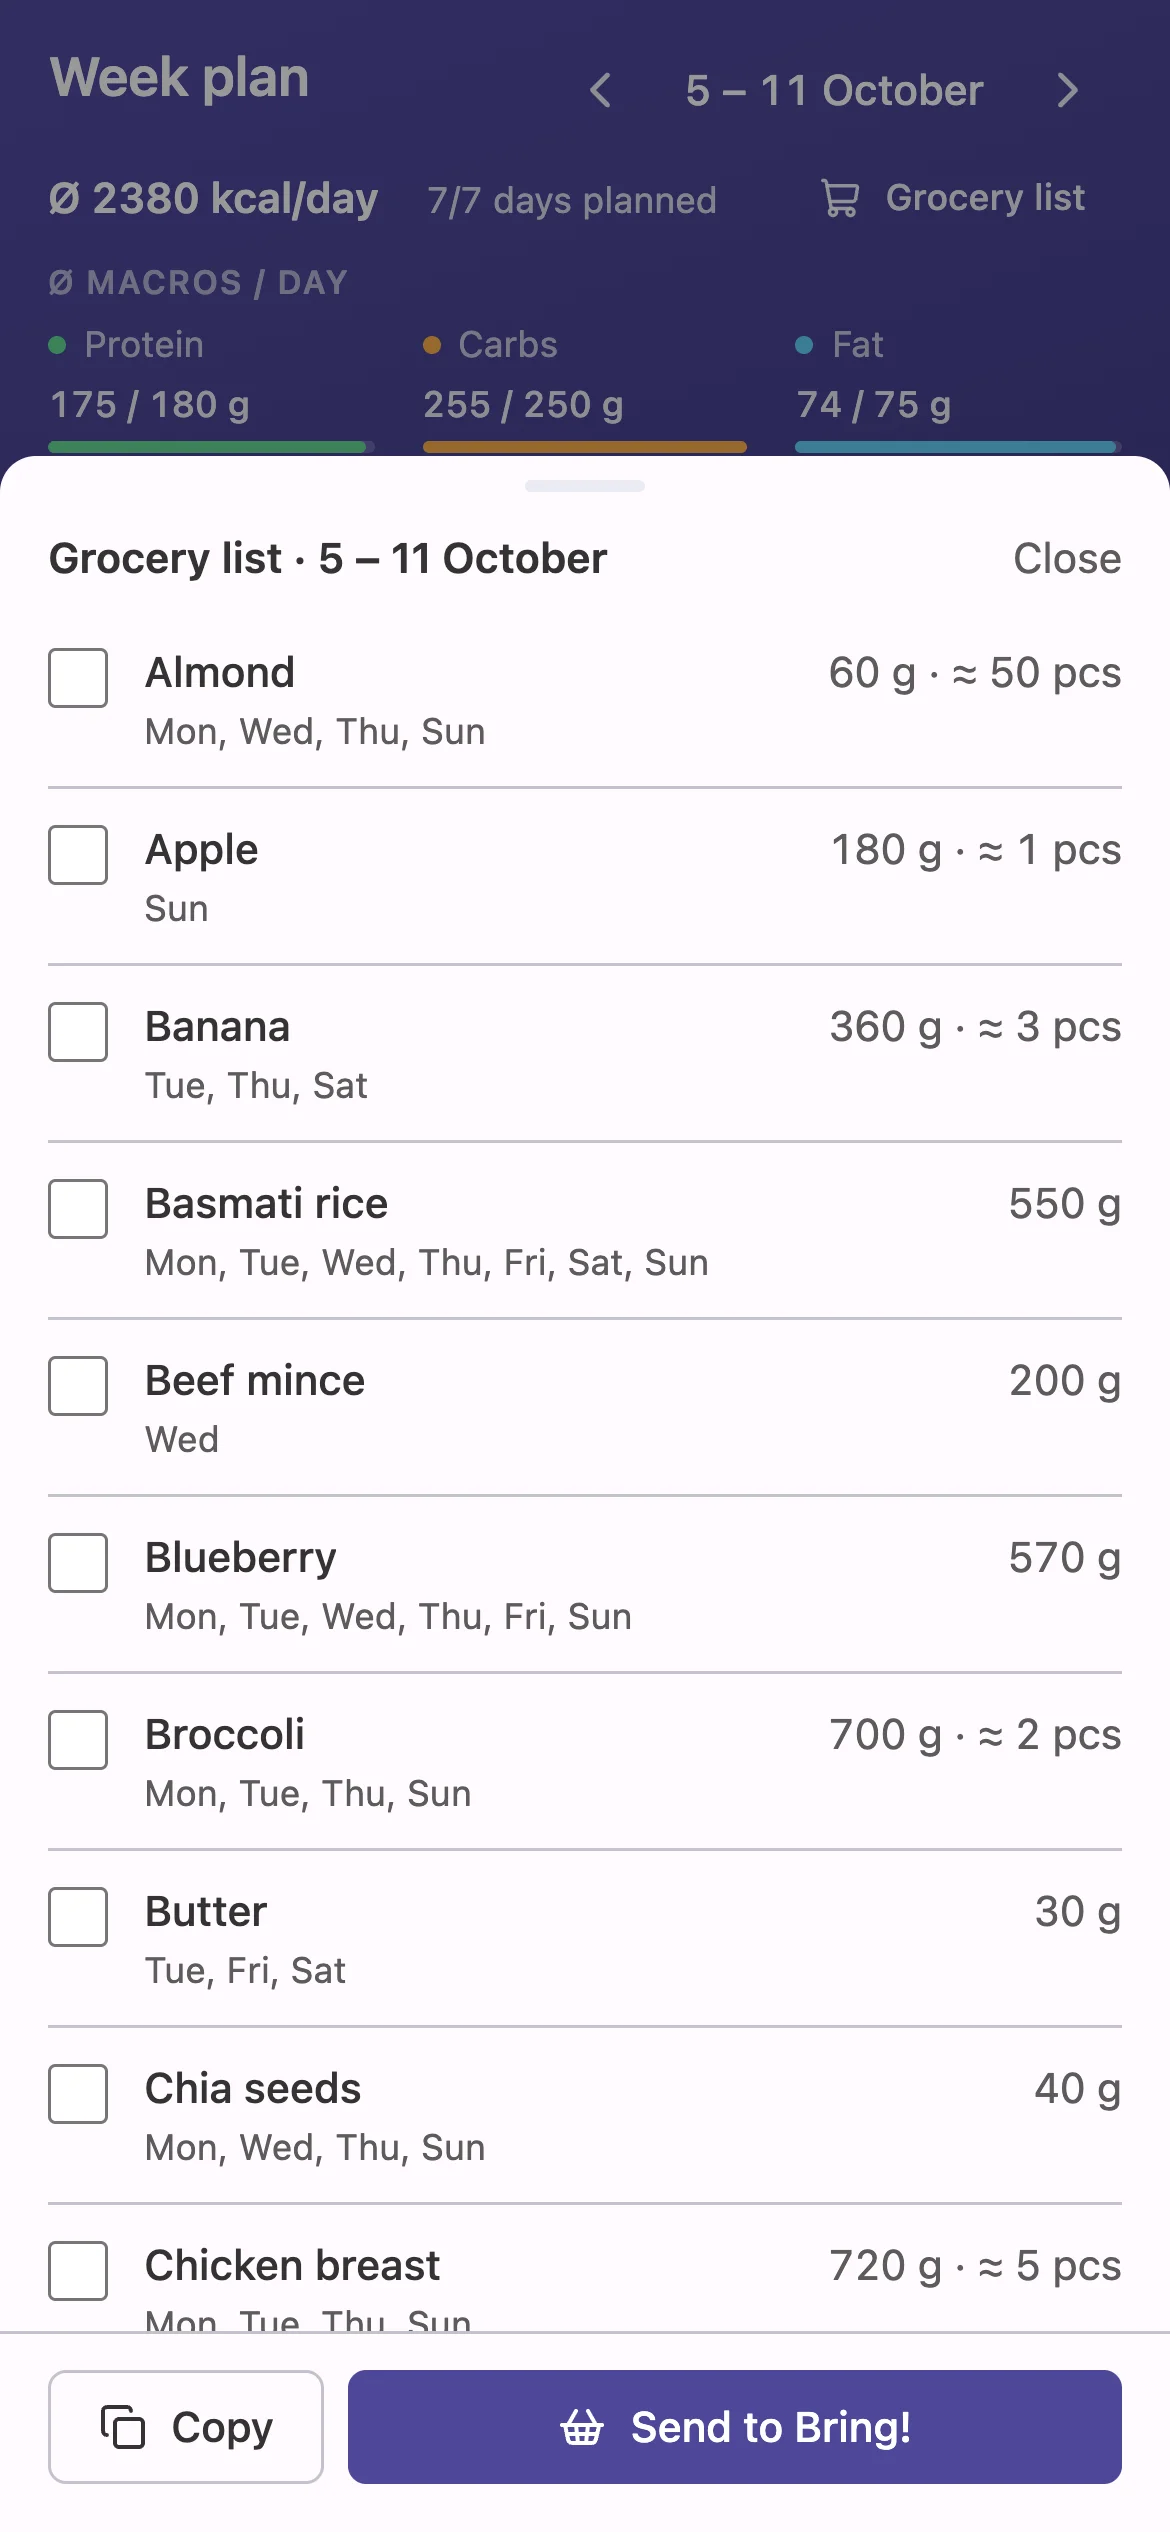
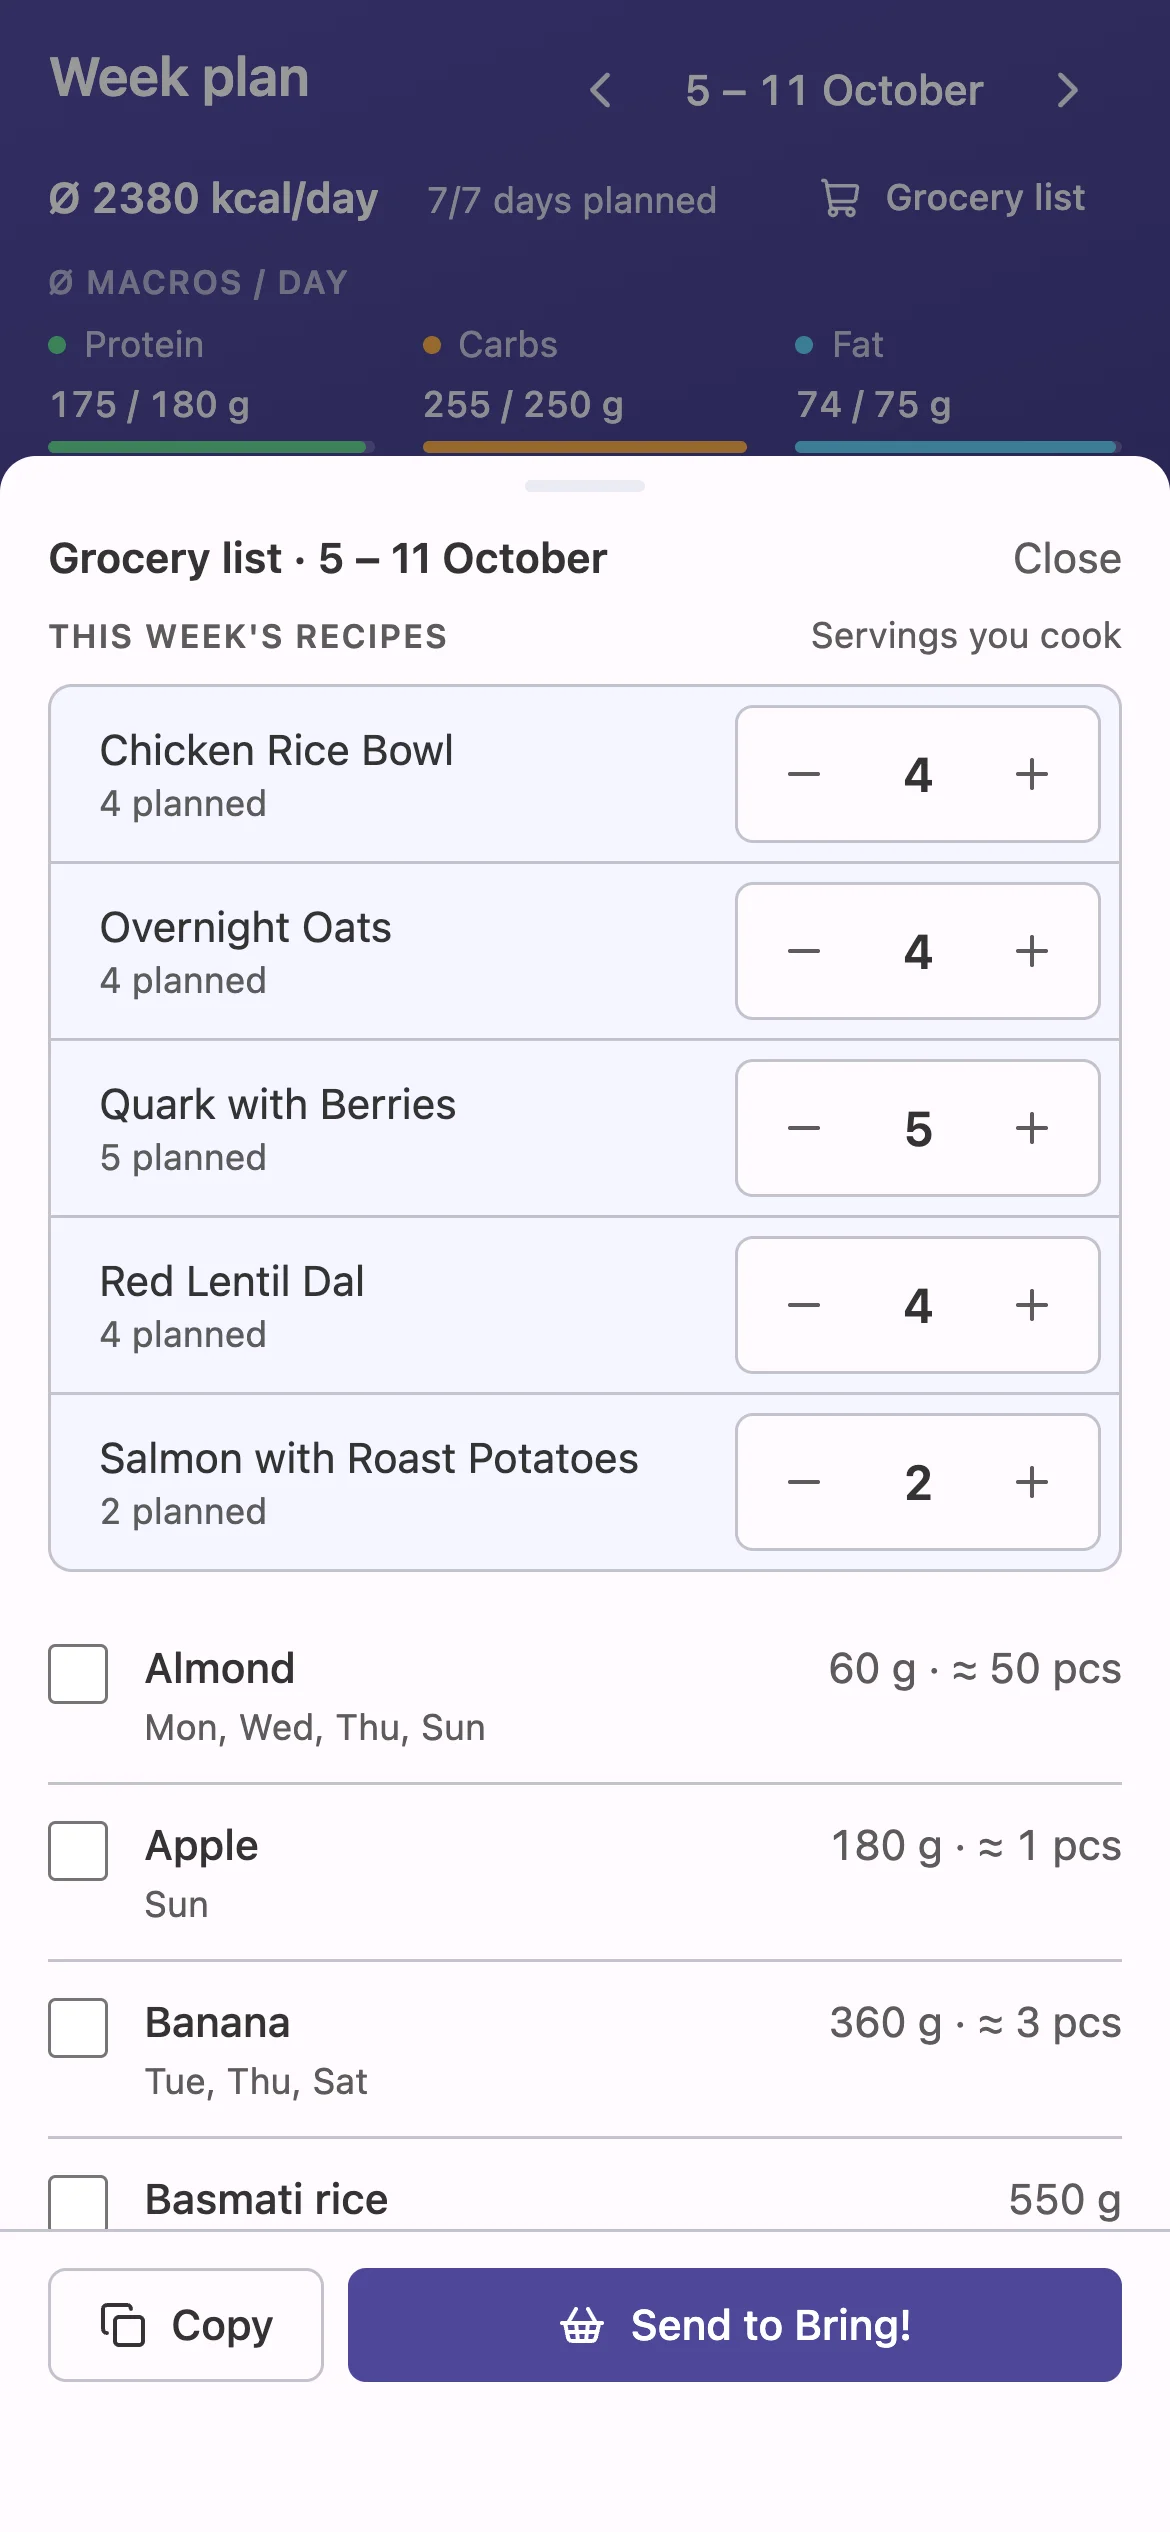
Draw the phone frame in SVG and recapture the phone screenshots
The website's phone frame is now two SVG masks: a rim with side buttons
under the screenshot and a bezel with the screen opening and the home
indicator over it, coloured by the frame and new frame-rim tokens. The
screenshot reaches under the bezel, so rounding no longer leaves one side
thinner. At phone width the hero row no longer stretches the front frame
out of its aspect ratio.

The capture script gives phone shots the iPhone's 34px home-indicator
gutter (headless Chrome has no safe-area insets), so the tab labels clear
the rounded corners. All phone shots are recaptured in EN and DE, which
also brings the grocery list's servings stepper onto the page.

The recapture recipe and what the frame relies on are documented in the
forkcast-dev skill, linked from AGENTS.md; DESIGN.md and its sidecar
describe the new frame.

Claude-Session: https://claude.ai/code/session_01XePo81tEWJZyEbhZQyK3yx

diff --git a/website/src/styles.css b/website/src/styles.css
@@ -15,6 +15,7 @@
   --line: hsl(244 16% 90%);
   --selection: hsl(244 60% 86%);
   --frame: hsl(244 18% 16%);
+  --frame-rim: hsl(244 8% 48%);
   --on-brand: hsl(0 0% 100%);
   --error: hsl(0 66% 44%);
   --macro-p: hsl(146 52% 38%);
@@ -50,6 +51,7 @@
     --line: hsl(244 16% 22%);
     --selection: hsl(244 40% 32%);
     --frame: hsl(244 14% 4%);
+    --frame-rim: hsl(244 8% 30%);
     --on-brand: hsl(244 40% 10%);
     --error: hsl(0 80% 72%);
     --macro-p: hsl(145 60% 62%);
@@ -300,24 +302,46 @@ figure {
   min-height: 670px;
 }
 
-/* The bezel is the screenshot's margin, not the frame's padding: a percentage margin resolves
- * against the frame's own width, so the bezel scales with the device at every size. */
+/* A drawn iPhone in three layers, all stretched to the frame's box: the rim with its side buttons
+ * (device-body.svg) under the screenshot, the bezel (device-bezel.svg) over it. The SVGs are masks,
+ * so the colours stay tokens. The screenshot reaches a little under the bezel on every side, so
+ * subpixel rounding never shows as an uneven edge. Geometry is in the SVGs' 436 x 891 units. */
 .device {
-  display: flow-root; /* keeps the screenshot's margin inside the frame */
   position: relative;
+  isolation: isolate;
   width: 280px;
-  border-radius: 16% / 7.4%;
-  background: var(--frame);
+  aspect-ratio: 436 / 891;
+  border-radius: 15.6% / 7.6%;
   box-shadow: var(--shadow-device);
+}
+
+.device::before,
+.device::after {
+  content: '';
+  position: absolute;
+  inset: 0;
+  -webkit-mask: var(--mask) 0 0 / 100% 100% no-repeat;
+  mask: var(--mask) 0 0 / 100% 100% no-repeat;
+}
+
+.device::before {
+  --mask: url('/device-body.svg');
+  z-index: -1;
+  background: var(--frame-rim);
+}
+
+.device::after {
+  --mask: url('/device-bezel.svg');
+  background: var(--frame);
 }
 
 .device img,
 .device .shot-missing {
-  display: block;
-  width: 88.8%;
-  margin: 5.6%;
-  height: auto;
-  aspect-ratio: 390 / 844;
+  position: absolute;
+  left: 4.243%; /* 18.5 */
+  top: 1.74%; /* 15.5 */
+  width: 91.514%; /* 399 */
+  height: 96.521%; /* 860 */
   border-radius: 13% / 6%;
   object-fit: cover;
   object-position: top;
@@ -380,6 +404,7 @@ figure {
     min-height: 0;
     display: flex;
     justify-content: center;
+    align-items: flex-start; /* stretching would override the frames' aspect ratio */
     gap: 16px;
     padding-bottom: 40px;
   }

diff --git a/website/DESIGN.md b/website/DESIGN.md
@@ -14,6 +14,7 @@ colors:
   line: "hsl(244 16% 90%)"
   selection: "hsl(244 60% 86%)"
   frame: "hsl(244 18% 16%)"
+  frame-rim: "hsl(244 8% 48%)"
   on-brand: "hsl(0 0% 100%)"
   error: "hsl(0 66% 44%)"
   macro-p: "hsl(146 52% 38%)"
@@ -31,6 +32,7 @@ colors:
   line-dark: "hsl(244 16% 22%)"
   selection-dark: "hsl(244 40% 32%)"
   frame-dark: "hsl(244 14% 4%)"
+  frame-rim-dark: "hsl(244 8% 30%)"
   on-brand-dark: "hsl(244 40% 10%)"
   error-dark: "hsl(0 80% 72%)"
   macro-p-dark: "hsl(145 60% 62%)"
@@ -100,7 +102,7 @@ rounded:
   control: "14px"
   browser: "12px"
   pill: "999px"
-  device: "16% / 7.4%"
+  device: "15.6% / 7.6%" # shadow box; the outline itself is drawn in the SVGs
   device-screen: "13% / 6%"
 spacing:
   gutter: "20px"
@@ -134,7 +136,7 @@ components:
     backgroundColor: "{colors.brand-soft}"
     textColor: "{colors.ink}"
   device-frame:
-    backgroundColor: "{colors.frame}"
+    backgroundColor: "{colors.frame}" # bezel; the rim is frame-rim
     rounded: "{rounded.device}"
     width: "280px"
   browser-frame:
@@ -191,6 +193,7 @@ A near-monochrome lilac-tinted neutral scale carrying a single saturated brand l
 - **Selection** (`selection`): the `::selection` highlight behind Ink text; a mid lilac in light mode, a deep lilac in dark mode.
 - **Rule** (`line`): every hairline: header on scroll, control borders, spreadsheet grid and formula bar, feature and flow rows, FAQ dividers, footer top.
 - **Frame** (`frame`): device bezel; near-black indigo, darker still in dark mode.
+- **Frame Rim** (`frame-rim`): the phone's metal rim and side buttons around the bezel; a mid grey indigo, darker in dark mode so it stays a rim, not a halo.
 - **On Lilac** (`on-brand`): text and checkmark on lilac. White in light mode, deep indigo in dark mode because the dark lilac is light.
 - **Error** (`error`): form error text and the spreadsheet `#REF!` cell.
 
@@ -253,7 +256,7 @@ Flat surfaces, with depth reserved for the app itself. Device and browser frames
 
 ## Shapes
 
-Generous, soft corners. Controls share one radius (`control`, 14px). Device frames use elliptical radii proportional to the frame (`16% / 7.4%` outer, `13% / 6%` screen) so they scale like a phone at any width. The bezel is the screenshot's 5.6% margin inside the frame, so it scales with the frame's width. Browser frames 12px, the spreadsheet the control radius, inline code, the focus ring and the drawn checkbox 6px (`inline`), the language switch a full pill. Borders are 1px hairlines on structure and 1.5px on controls. Two pieces carry a slight tilt on desktop (back device -4deg, spreadsheet 1.2deg), straightened on narrow screens.
+Generous, soft corners. Controls share one radius (`control`, 14px). Device frames are drawn in SVG (436 x 891 units: 68 outer corner, 50 screen corner), stretched to the frame's box so they scale like a phone at any width; the screenshot's own corners are `13% / 6%`. Browser frames 12px, the spreadsheet the control radius, inline code, the focus ring and the drawn checkbox 6px (`inline`), the language switch a full pill. Borders are 1px hairlines on structure and 1.5px on controls. Two pieces carry a slight tilt on desktop (back device -4deg, spreadsheet 1.2deg), straightened on narrow screens.
 
 ## Components
 
@@ -282,7 +285,7 @@ The page has no text inputs: the interest check is the choice cards, a lead note
 - Sticky 64px header: wordmark (favicon plus lowercase "forkcast", Subtitle at 700, -0.03em), section links in Ink Soft at Small turning Ink on hover, a GitHub link with its mark, and a bordered pill language switch (Caption, 600). Section links hide under 760px. On touch screens nav links get 44px hit areas; the pill gets an invisible tap ring instead of growing.
 
 ### Device frame (signature)
-A drawn phone: Frame-coloured body with no padding (a flow root), elliptical radii, Device lift shadow; the 390:844 screenshot sits inside at 88.8% width with a 5.6% margin that forms the bezel, cropped from the top. 280px default; in the hero a front phone (week plan) overlaps a smaller tilted back phone (grocery list), captioned beneath. Screenshots ship with `srcset` (a 600w phone variant beside the full 1170w). Missing rasters are replaced by a labelled Lilac Paper placeholder, never a broken image.
+A drawn iPhone in three layers on a 436:891 box with the Device lift shadow: the rim with its side buttons (`device-body.svg`, Frame Rim) under the screenshot, the bezel with the rounded screen opening and the home indicator bar (`device-bezel.svg`, Frame) over it. Both SVGs are CSS masks, so their colours stay tokens. The 390:844 screenshot is placed by percentages, reaches a little under the bezel on every side so rounding never shows an uneven edge, and is cropped from the top. No Dynamic Island: the screenshots carry no status bar, so it would sit on the app header. Phone shots are captured with the iPhone's 34px home-indicator gutter under the tab bar and sheets, so their labels clear the rounded screen corners. In a flex row the frame must not stretch (`align-items: flex-start`), or the stretch overrides its aspect ratio. 280px default; in the hero a front phone (week plan) overlaps a smaller tilted back phone (grocery list), captioned beneath. Screenshots ship with `srcset` (a 600w phone variant beside the full 1170w). Missing rasters are replaced by a labelled Lilac Paper placeholder, never a broken image.
 
 ### Browser frame
 A 12px-rounded, shadow-lifted 16:10 crop of the desktop app (`srcset` 1440w / 2880w), paired with a small phone (22% width) at its lower edge. Hidden under 760px.

diff --git a/.claude/skills/forkcast-dev/SKILL.md b/.claude/skills/forkcast-dev/SKILL.md
@@ -92,6 +92,31 @@ Avoid triggering native dialogs (`alert`/`confirm`) — they freeze the extensio
 This matches the standing instruction: disable HTTPS in Vite before browser smoke
 testing (now via `make dev-http`, no manual `vite.config.ts` edit needed).
 
+## Landing-page screenshots
+
+The website's app screenshots (`website/public/screenshots/<en|de>/`) come from the real app with seeded demo data: `scripts/demo/seed-demo-data.mts` seeds a week through the API, `scripts/demo/capture-screenshots.mjs` drives the frontend with Playwright. Both scripts document their env in their headers. Recipe, once per locale:
+
+```bash
+# 1. Throwaway backend: a scratch dir with only the catalog, so backend/data stays untouched.
+#    The backend resolves ./data relative to its cwd. Free :3000 first (make kill-port).
+D=$(mktemp -d) && mkdir $D/data && cp backend/data/catalog.json $D/data/
+(cd $D && AUTH_PASSWORD=demo AUTH_JWT_SECRET=demo-secret-0123456789abcdef \
+  node --experimental-transform-types "$OLDPWD/backend/src/index.ts") &
+# 2. Seed (refuses when recipes exist; a fresh dir per locale, because names are stored per language).
+LOCALE=en FORKCAST_PASSWORD=demo node scripts/demo/seed-demo-data.mts
+# 3. Capture against the frontend dev server (pnpm --filter @forkcast/frontend dev, proxies /api to :3000).
+LOCALE=en FORKCAST_PASSWORD=demo CHROME_PATH="/Applications/Google Chrome.app/Contents/MacOS/Google Chrome" \
+  npx -y -p playwright-core@1.63 node scripts/demo/capture-screenshots.mjs [shot]
+# 4. Copy <shot>.webp and <shot>-600.webp (phone) / <shot>-1440.webp (desktop) from scripts/demo/out/<locale>/
+#    into website/public/screenshots/<locale>/; og.jpg goes to website/public/og-<locale>.jpg.
+```
+
+What the page relies on:
+
+- Phone shots are 390x844 at 3x (1170x2532), no status bar. The website's phone frame (`.device`, drawn by `website/public/device-body.svg` + `device-bezel.svg`, 436x891 units) expects that ratio and has no Dynamic Island, since it would cover the app header.
+- The capture adds the iPhone's 34px home-indicator gutter under the bottom nav and sheets (headless Chrome reports no safe-area insets). Without it the tab labels run into the frame's rounded corners and under its home indicator bar. Tailwind `@theme inline` bakes `env()` into the `pb-safe-b` / `pb-nav-safe` utilities, so the script overrides those classes, not the tokens.
+- The daily-log shot shows the day the capture runs. The seeded week is the current week (`WEEK_START` overrides it), so capture on a day whose log shows what you want.
+
 ## Gotchas (don't re-diagnose these)
 
 - **`vp fmt` at the repo root touches markdown/openspec too** (hundreds of files). Only ever format the source dirs — use `make fmt`, never bare `vp fmt`.

diff --git a/AGENTS.md b/AGENTS.md
@@ -50,6 +50,7 @@ Public landing page at https://check-forkcast.tizzy.dev (EN at `/`, DE at `/de/`
 - Production settings are committed in `website/.env.production` (not secret, they end up in the HTML): Umami script, website ID and `UMAMI_DOMAINS`, and one Tally form per language (`TALLY_FORM_ID_EN` / `_DE`). Dev builds without them never track; `.env.example` documents every key.
 - Ticking hosted / self-host counts the vote as a cookieless Umami event (`interest`). The button only opens the optional launch e-mail on Tally, prefilled with the choice. The page itself never asks for an e-mail; keep it that way, the privacy policy says so.
 - `.github/workflows/website.yml` deploys to GitHub Pages on pushes to `main` that touch `website/`.
+- App screenshots are real captures of the seeded demo app (`scripts/demo/`), not mockups. Recapture recipe and what the phone frame relies on: the `forkcast-dev` skill, _Landing-page screenshots_.
 
 ## Design workflow
 
